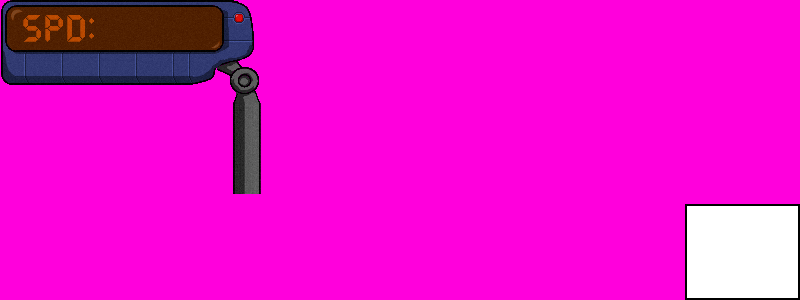
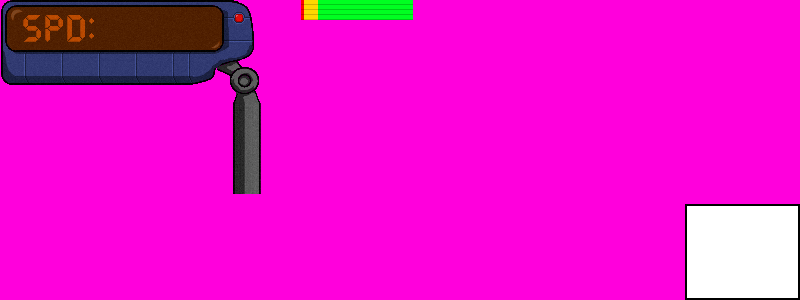
forgot .h and HUD.png

Changed region(s): [[0.375, 0.0, 0.5312, 0.09]]

diff --git a/PSI-Helm Prototype/PSI-Helm Prototype/StandardObject.h b/PSI-Helm Prototype/PSI-Helm Prototype/StandardObject.h
@@ -27,6 +27,9 @@ class StandardObject {
 		void setTexture(const io::path & filename);
 		void Update(bool input[],f32 deltaTime);
 		void AddForce(vector3df force);
+		float getVelocity();
+		float getPitchVelocity();
+		float getRollVelocity();
 		void drawall();
 		IAnimatedMesh* getMesh();
 		IAnimatedMeshSceneNode* getNode();
